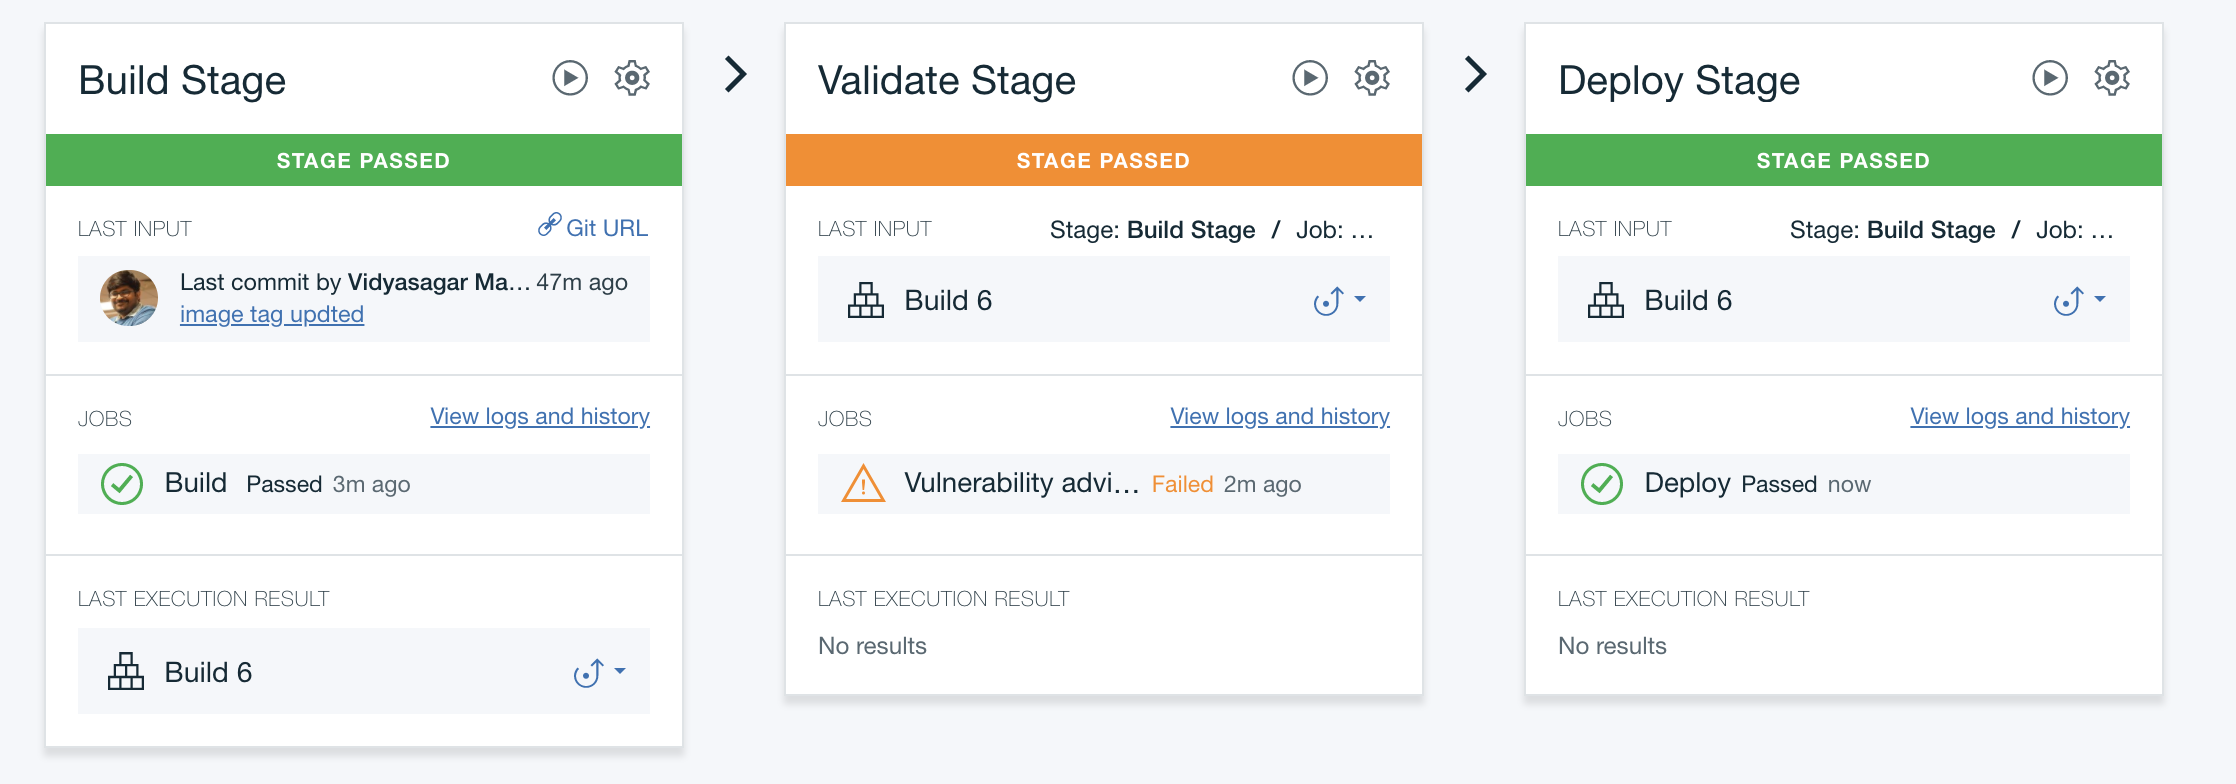
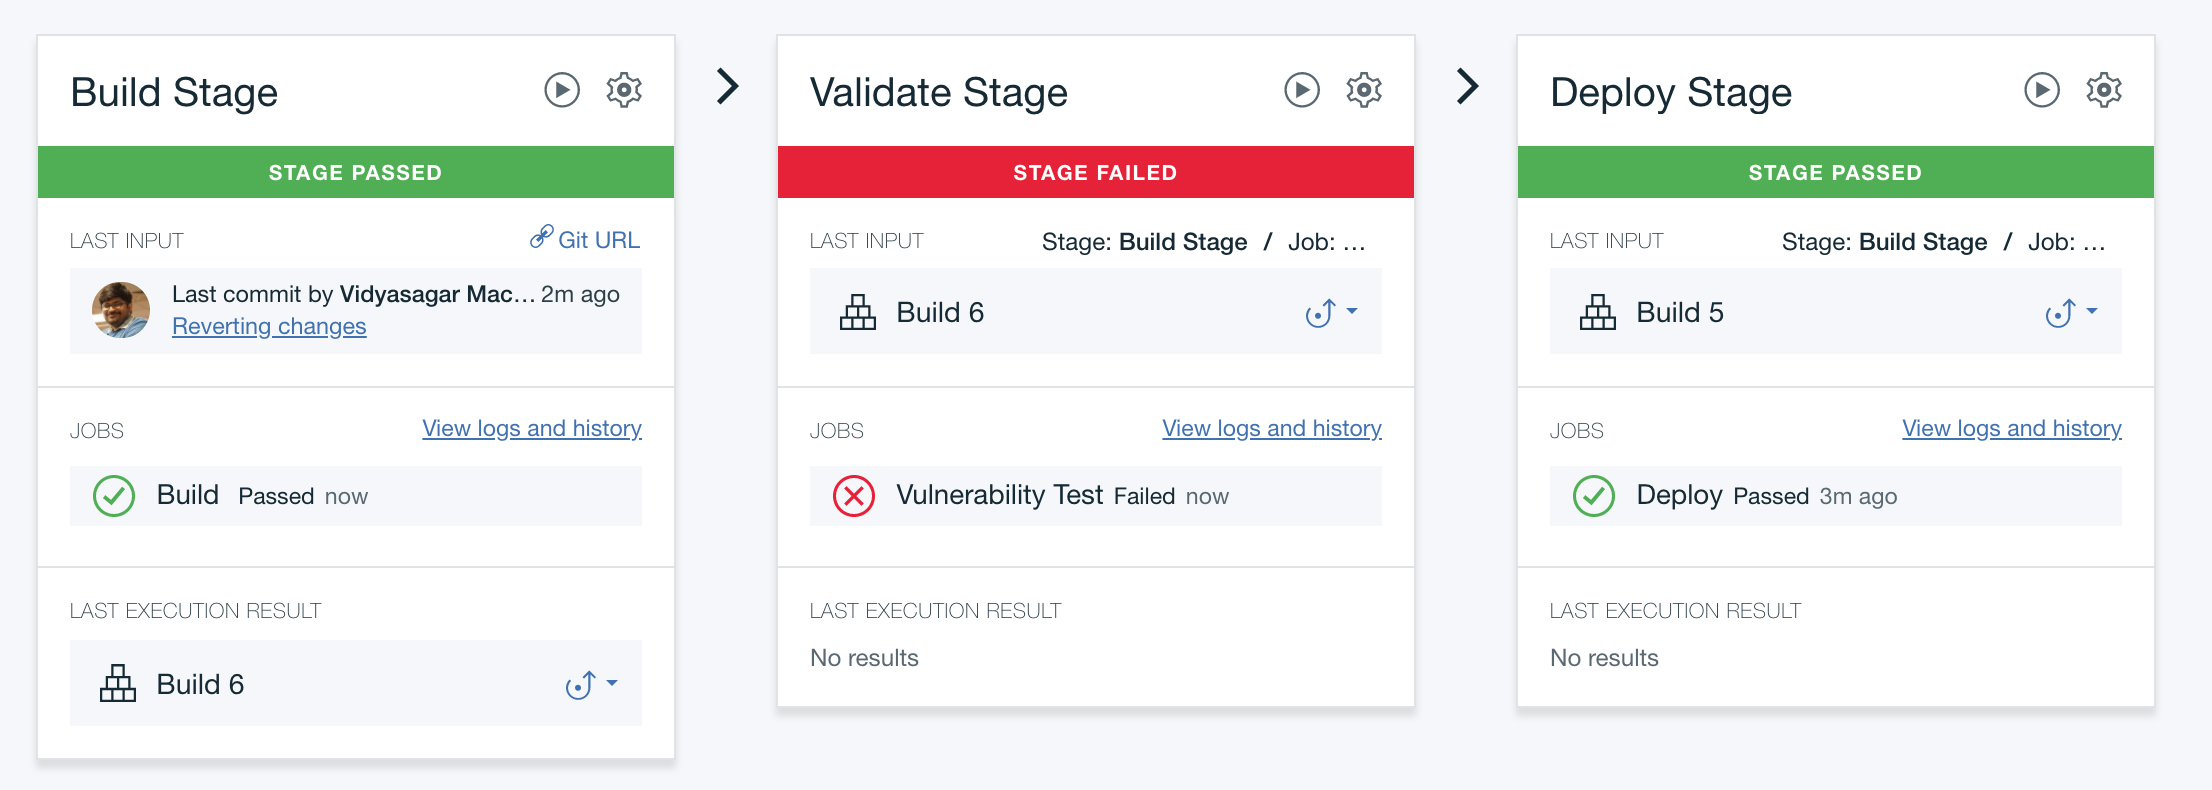
Sol 22 - Updated Vulnerability section

diff --git a/continuous-deployment-to-kubernetes.md b/continuous-deployment-to-kubernetes.md
@@ -202,29 +202,38 @@ In this step, you will explore the [Vulnerability Advisor](https://console.bluem
   Container Registry namespace should be same as the one mentioned in **Build Stage** of this toolchain.
   {:tip}
 
-7. Uncheck **Stop running this stage if this job fails** so that the Deploy Stage executes even if the Validate Stage fails. Click **Save** to reflect your changes.
+7. Drag and move the **Validate Stage** to the middle.
 
-8. Drag and move the **Validate Stage** to the middle.
+8. Click **Run** ![](images/solution21/run.png) on the **Validate Stage**.You will see that the **Validate stage** fails.
 
     ![](images/solution21/toolchain.png)
 
-10. Open the cloned repository in an IDE or select Eclipse Orion web IDE tile, open `.bluemix/scripts/container_build.sh` and change $BUILD_NUMBER on lines 57 and 59 to **latest**.
+9. Click on **View logs and history** to see the vulnerability assessment.The end of the log says:
 
-10. Commit and Push the changes. This should trigger the toolchain.
+    ![](images/solution21/vulnerability_report.png)
+
+    You can see the detailed vulnerability assessments of all the scanned repositories [here](https://console.bluemix.net/containers-kubernetes/security/scans)
+    {:tip}
+
+10. Let's fix the vulnerabilities by following the corrective action. Open the cloned repository in an IDE or select Eclipse Orion web IDE tile, open `Dockerfile` and add the below command after `EXPOSE 3000`
 
     ```
-    git add .bluemix/scripts/container_build.sh
-    git commit -m "Change build label"
+    RUN apt-get update && apt-get install -y \
+            libc6 \
+            systemd
+    ```
+
+11. Commit and Push the changes. This should trigger the toolchain and fix the **Validate Stage**.
+
+    ```
+    git add Dockerfile
+    git commit -m "Fix Vulnerabilities"
     git push origin master
     ```
 
-12. Once the Validate Stage is executed, Click on **View logs and history** to see the vulnerability assessment.
-
-     You can see the detailed vulnerability assessments of all the scanned repositories [here](https://console.bluemix.net/containers-kubernetes/security/scans)
-     {:tip}
-
 
 ## Setup Slack notifications
+
 {: #setup_slack}
 
 1. Go back to view the list of [toolchains](https://console.bluemix.net/devops/toolchains) and select your toolchain, then click on **Add a Tool**.

diff --git a/gather-visualize-analyze-iot-data.md b/gather-visualize-analyze-iot-data.md
@@ -126,7 +126,7 @@ Your device data is now saved in Cloudant. Launch the Cloudant dashboard to see 
 ## Detect Anomalies using Machine Learning
 {: #data_experience}
 
-In this section, you will use the Jupyter Notebook that is available in the IBM Data Science Experience service to load your historical temperature data and detect anomalies using z-score.
+In this section, you will use the Jupyter Notebook that is available in the IBM Data Science Experience service to load your historical mobile data and detect anomalies using z-score.
 
 ![](images/solution16/DSX.png)
 
